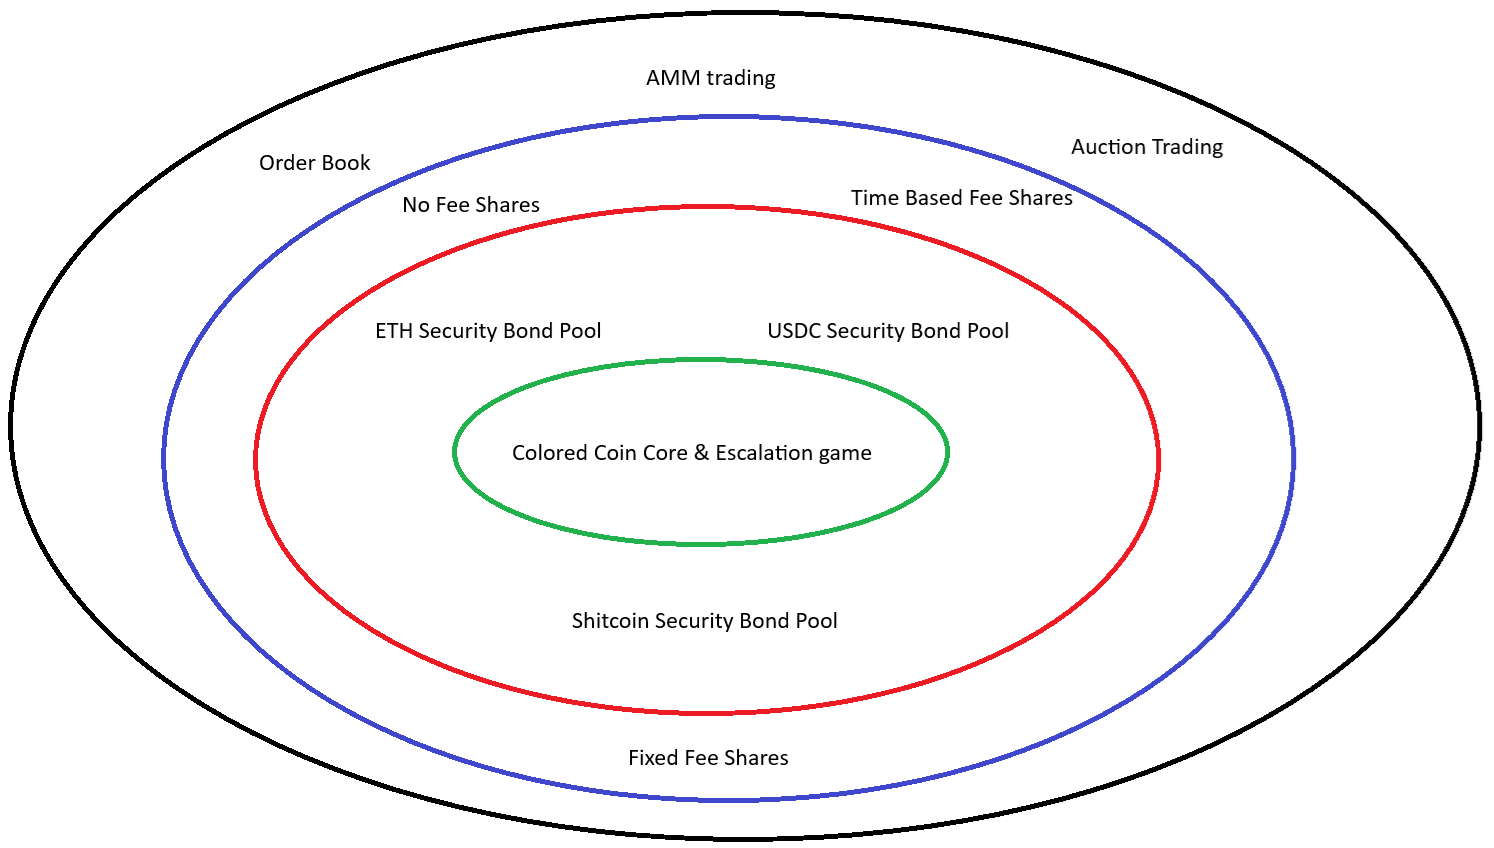
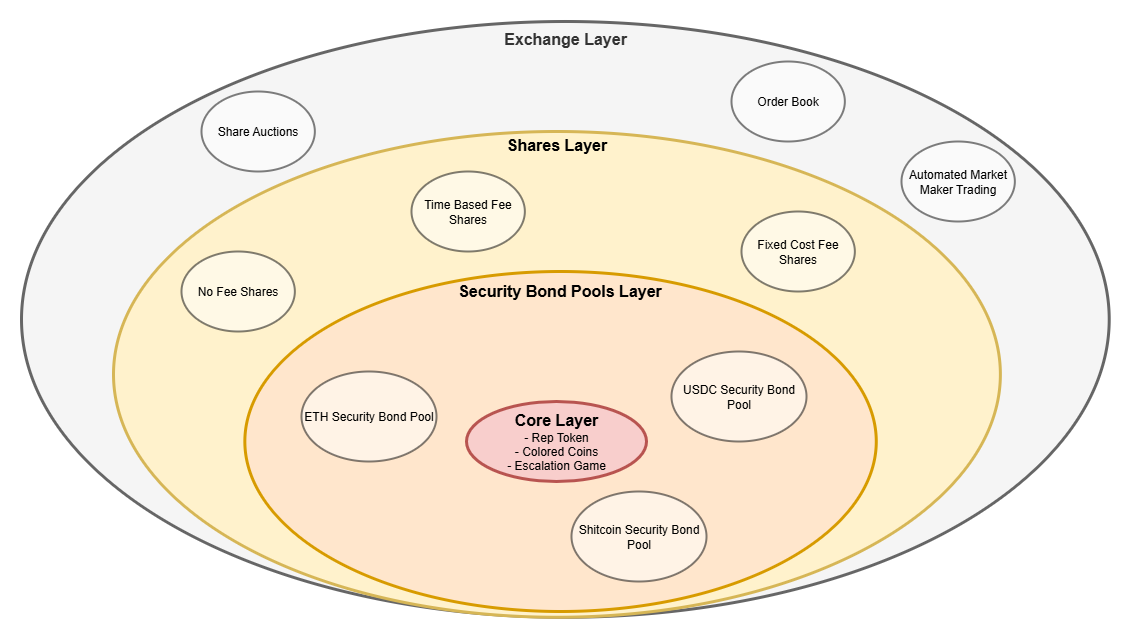
updates

diff --git a/second_draft_whitepaper/whitepaper_DRAFT2.md b/second_draft_whitepaper/whitepaper_DRAFT2.md
@@ -1,13 +1,19 @@
 # PLACEHOLDER2 - a Decentralized Oracle and Prediction Market Platform
 
+PLACEHOLDER2 is a game-theoretically secure, censorship-resistant oracle and prediction market protocol built on Ethereum. It allows users to create, trade, and resolve prediction markets while aligning incentives toward accurate reporting of real-world outcomes.
+
+PLACEHOLDER2 is built on the Augurs2 design idea: If there's disagreement about how a market should resolve, Augur splits into two chains. Users are expected to follow the chain that reflects the "truth," and that version retains its value.
+
 ![image](images/layers.png)
 
-PLACEHOLDER2 is built with multiple layers. At its core is the Colored Coins system, combined with an Escalation game. Each additional layer extends this foundation. Upgrades are trustless and open - anyone can deploy a new contract, and once deployed, it can be used alongside all previous contract versions.
-
-The PLACEHOLDER2 core allows betting only with REP tokens. To enable betting with other tokens, Token Security Bond Pools come in the play, which is the next layer. The above layers then again plug into this layer to continue building financial derivates on top of the core.
+PLACEHOLDER2 is built with multiple layers: 
+1) **Core Layer**: A feeless Colored Coins system with an Escalation Game. The Core Layer enables users to submit questions to the PLACEHOLDER2 oracle. The oracle can respond with one of three outcomes - YES, NO, or INVALID - or, if there is disagreement, trigger a fork of the REP token to resolve the question in the forked universe.
+2) **Seurity Bonds Pools Layer**: Converts the REP backed bets into backed by any other token, eg, ETH/USDC or any untrusted shitcoins.
+3) **Shares Layer**: Enables REP holders to sell their share of PLACEHOLDER2’s security to traders through customizable fee structures.
+4) **Exchange Layer**: Provides a marketplace where traders can buy and sell shares, as well as place bets on real-world events, using tokens and fee structures defined by the market.
 
 # Core Layer
-The core consists of a colored coin system and an escalation game.
+The core consists of a Colored Coin system and an Escalation Game system.
 
 The *Colored Coins* system refers to a distinct oracle mechanism, with the earliest mention appears in a brief reference by [zack-bitcoin](https://github.com/zack-bitcoin) in the [Amoveo documentation](https://github.com/zack-bitcoin/amoveo-docs/blob/master/design/oracle_simple.md). This design is entirely separate from the concept of [Colored Coins on Bitcoin](https://en.bitcoin.it/wiki/Colored_Coins), which involves tagging bitcoins to represent alternative assets on the Bitcoin blockchain.
 
@@ -20,5 +26,126 @@ The core concept of Colored Coins can be summarized as:
 > Each time the system encounters a decision, the chain of decisions splits-each possible outcome unfolding in its own branch. These branches can then continue to fork with every subsequent decision.
 
 PLACEHOLDER2 implements the same system using REP token than splits decisions. However, not every decisions will trigger a fork. An escalation game system is used to prevent disruptive forks.
+
+## Colored Coin never resolves the markets
+A key implication of this design is that the system never definitively resolves decisions. From the perspective of an outside observer, there is no single "correct" outcome-since all outcomes exist simultaneously on their respective branches. This makes the system fundamentally different to other decentralized oracles (e.g., [Augur V2](https://github.com/AugurProject/whitepaper/releases/latest/download/augur-whitepaper-v2.pdf) or [UMA](https://uma.xyz/)), which are vulnerable to parasitic interest attacks. In contrast, the Colored Coins approach mitigates this issue by not finalizing any single resolution, making it impossible to extract value without engaging directly in the system.
+
+Some may argue that this mechanism doesn't constitute a true oracle-since it never produces a final, canonical answer-but in the context of a prediction market, a definitive oracle isn't always necessary.
+
+In this model, users can freely trade within a chosen branch (also called "chain" or "universe" in this article). When the market forks due to a decision, each participant can independently select the branch they consider to represent the correct outcome and continue trading within that context.
+
+> [!NOTE]
+> ### Example: Universe Forking in Practice
+> 
+> Assume we have two prediction market traders, **Bob** And **Alice**. The traders are trading with colored coins denotiated with $REP$.
+> 
+> 1. **Bob** holds 100 YES shares in the market.
+> 2. **Alice** holds 100 NO shares in the same market.
+> 3. When the market reaches its resolution point, the current universe forks into two new universes: one where the outcome is **YES**, and another where it is **NO**.
+> 4. In the **YES universe**, Bob can redeem his 100 YES shares for 100 units of a universe-specific asset, denoted as $REP_{YES}$. In this universe, Alice's NO shares are worthless (0 $REP_{YES}$).
+> 5. In the **NO universe**, Alice can redeem her 100 NO shares for 100 $REP_{NO}$. In this universe, Bob's YES shares hold no value (0 $REP_{NO}$).
+> 6. Despite losing in the YES universe, Bob might personally believe the NO outcome is correct. As a result, he chooses to continue trading in the **NO universe**.
+> 7. Alice also believes the NO universe is correct and continues trading there as well.
+> 
+> However, this isn’t always the case. Steps 6 and 7 could unfold differently if the participants disagree. For example, Bob might stay in the YES universe while Alice stays in the NO universe.
+
+> So for an honest oracle the question of "Is it raining in Berlin" is kind of the same as the question "Should we say it's raining in Berlin" - Edmund Edgar
+
+## Truthful universe should retain significant portion of the economic activity
+
+After a market has forked, if enough users support each branch, both universes can retain economic activity and remain valuable, potentially becoming the basis for future markets independently. The system considers all the future universes equally and internally has no information about the truthfulness of the universes. We can assume that at the time of the fork, the value of the assets prior to the fork equal the value of the assets after the fork (across all universes):
+
+```math
+\boxed{
+	value\;of\;assets\;prior\;fork = \sum_{future\;universes}{value\;of\;assets_{universe}}
+}
+```
+
+We also need to assume that:
+```math
+\boxed{
+	value\;of\;assets\;prior\;fork ≈ value\;of\;assets_{truthful\;universe}
+}
+```
+We can then deduce that this must mean that the value of dishonest universes need to be approximately 0:
+```math
+\sum_{dishonest\;universes}{value\;of\;assets_{universe}} ≈ 0
+```
+If these assumptions hold, traders are incentivized to align their trades with the truth, as only the true outcome captures all the value when the market resolves. Otherwise, traders may be biased against the actual value distribution, since multiple outcome branches can each retain non-zero value at resolution.
+
+> [!NOTE]
+> ### Example: Split Beliefs
+> 
+> **Alice** is trading on a prediction market for the question: *"Who will be the leader of OrangeLand in 2025?"* The market currently has equal-priced limit orders, implying a 50%-50% probability split between **Leader Bob** and **Majesty Mallory**.
+> 
+> Due to ongoing political turmoil in OrangeLand, Alice believes the country will fracture into two factions, each recognizing a different leader as legitimate. She estimates that 20% of the country will recognize **Leader Bob**, while 80% will support **Majesty Mallory**.
+> 
+> From Alice’s perspective, the correct valuation of the options should reflect this split: the **Leader Bob** contract should be priced at 20%, and the **Majesty Mallory** contract at 80%. However, since the market currently prices both at 50%, Alice sees a profitable opportunity. She can buy **Leader Bob** shares, which she believes are undervalued, and sell or avoid **Majesty Mallory** shares, which she believes are overvalued. If her belief about the split future is correct, her **Leader Bob** shares will effectively be worth 80% of their current market value, generating a significant profit.
+
+## Acquiring Colored Coins
+
+Obtaining colored coins can be challenging, as the system lacks a built-in mechanism to mint new coins on demand. Currently, there are a few ways to acquire them:
+
+1. **Initial Distribution**: When the system is first launches, colored coins can be distributed to users.
+2. **Secondary Market**: Once the system is operational, existing holders may sell their coins to new users in exchange for other assets.
+3. **Market Winnings**: In the prediction markets, winners receive colored coins from the losing side of bets.
+
+If a reliable internal method is established to assess the value of colored coins, the system could introduce a mint-and-burn mechanism-minting new coins backed by valuable assets, and later buying them back using the same assets.
+
+One possible implementation this would be periodic auctions, where a fixed amount of colored coins is auctioned in exchange for a predefined asset considered valuable at the system’s launch. In parallel, a reverse auction could be held where users exchange those assets back for colored coins, helping to establish and reinforce their internal value.
+
+> [!WARNING]
+> TODO: Analyze these distribution methods more
+
+## All assets need to be forkable
+
+The Colored Coins system requires the asset that markets are denominated in to be natively splittable across forks, which prevents the direct use of external assets like Ether, Bitcoin, or fiat-backed stablecoins. As a result, participants must trade using assets issued and governed entirely within the system.
+
+This is a major limitation. Each deployment must create its own internal currencies, which are the only tradable assets. Consequently, liquidity and price stability are often weaker than they would be if widely recognized external assets were supported.
+
+The **Partial Colored Coins** system is a proposed solution to this limitation. It aims to enable trading using external assets while preserving the core branching mechanism of the Colored Coins model.
+
+## What Makes Colored Coins Valuable?
+
+The Colored Coins system does not impose any fees to its users, so the coins do not derive value from generating profit for their holders. Instead, their value comes from the permission they grant: holding colored coins allows users to participate in trustless prediction markets. Users without colored coins must acquire them (as discussed earlier) in order to take part.
+
+This logic also explains why *truthful* colored coins hold value, while *dishonest* ones do not. Prediction markets only function properly when participants are incentivized to make honest predictions. If dishonest outcomes were valuable, the markets would lose their purpose. Therefore, the system relies on the value of colored coins being tied to truthful participation.
+
+Importantly, Colored Coins avoid the "Ouroboros Problem"-a flaw common in pyramid or Ponzi schemes -- where value depends on attracting new investors to pay returns to earlier ones. Instead, the value of Colored Coins is sustained by the actual use of the platform, not by the influx of new capital.
+
+### Volatility of Colored Coins
+The value of colored coins is highly volatile, as it is only tied to the utility and activity within the prediction market platform. When platform usage increases-especially during periods with engaging or high-interest markets-the demand for colored coins can tend to rise, pushing their value up. Conversely, when activity slows down or markets are less appealing, their value can drop.
+
+> [!NOTE]
+> #### Example: Predicting with volatile coins
+> Suppose one colored coin is worth $5. You place a successful bet and double your colored coin balance from 1 COINS to 2 COINS. However, during that time, the value of each colored coin drops to $2.50. Despite winning the bet, your total value remains $5, meaning you made no real gain.
+
+Traders in the colored coins system must account for potential fluctuations in the coin's value over time. A trader who believes the value of colored coins will rise might opt to simply buy and hold them, rather than engaging in prediction markets. If the value does increase, they can later sell the coins for a profit.
+
+However, this volatility introduces a strategic vulnerability. If a trader believes the platform's currency is overvalued, they should avoid participating in prediction markets. Instead, the rational move would be to sell their holdings, wait for the currency to reach a more reasonable valuation, and only then re-engage with the platform. Conversely, if the colored coins are undervalued, the trader should consider buying them and possibly participating in prediction markets to amplify potential gains.
+
+An efficient shorting mechanism for colored coins could add significant value by enabling traders to profit from both upward and downward price movements, while also helping to keep the asset's value within a more reasonable range.
+
+If the Colored Coins system is treated purely as a game, without attaching financial value to the coins, volatility becomes irrelevant. In this context, players may care only about the number of colored coins they hold in the correct universe-not their value relative to any external asset.
+
+## Assumptions of colored coins
+
+To sum it up, in order for the Colored Coins system to be secure, we need to assume the following: 
+
+1. **Users are greedy**: Users value more money over less money.
+2. **A fork doesn't change the total value of the system**. Market cap of a previous universe equals to market cap of the formed universes: 
+```math
+\text{value of assets prior fork }= \sum_{\text{future universes}}{\text{value of assets}_{universe}}
+```
+3. **Users value honest universe(s)**: User prefers to use an universe that is honest in their opinion:
+```math
+\text{value of assets prior fork } = \text{value of assets}_{\text{truthful universe}}
+```
+4. **Neglible operation costs**: Transaction fees (eg, gas fee) are neglible compared to financial value of the transactions.
+5. **Access to information**: Users should have reliable and timely access to information in order to determine the most truthful outcome of a market.
+6. **Colored Coins are not too volatile**: If the coins are too volatile, it makes no sense to bet with them.
+7. **Traders can handle some extra volatility**: Users are okay to trade only with volatile tokens.
+8. **Migrating is not too hard**: Users, exchanges and other tools using the systems are okay to migrate into fork they believe is truthful.
+
 
 ## [Escalation Game](Escalation%20Game.md)

diff --git a/Partial Colored Coins.md b/Partial Colored Coins.md
@@ -122,7 +122,7 @@ A more robust approach is to implement time-based fees - fees that increase the 
 
 One simple method to implement time-based fee adjustments is via a [**Bang–bang controller**](https://en.wikipedia.org/wiki/Bang%E2%80%93bang_control):
 ```math
-\text{Fee Change%} = 
+\text{Fee Change Fraction} = 
 \begin{cases}
 +\text{increment} & \text{if } \text{open interest} > \text{Target REP Market Cap} \\\\
 0 & \text{if } \text{open interest} = \text{Target REP Market Cap} \\\\
@@ -134,7 +134,7 @@ Here, `increment` is a tunable parameter that determines how quickly the fee rea
 
 The actual **Open Interest Fee (%)** then evolves over time as:
 ```math
-\text{New Open Interest Fee%} = \text{Previous Open Interest Fee} + \text{Fee Change%} \cdot \Delta time
+\text{New Open Interest Fee Fraction} = \text{Previous Open Interest Fee} + \text{Fee Change Fraction} \cdot \Delta time
 ```
 
 Where:
@@ -202,11 +202,11 @@ where $\text{REP Token Price}_{asset}$ is $REP$ token price in asset, which is a
 ```
 We can then get $REP$'s token price in the same unit as the market cap is calculated, e.g., dollars($):
 ```math
-\text{REP Token Price}_$ = \frac{\text{REP Market Cap}_$}{\text{REP Token Supply}+\sum_{ a \in \text{all assets} }{\text{REP Tokens Minted}_{a}}}
+\text{REP Token Price}_{USD} = \frac{\text{REP Market Cap}_{USD}}{\text{REP Token Supply}+\sum_{ a \in \text{all assets} }{\text{REP Tokens Minted}_{a}}}
 ```
 We then need to have a price oracle for each $asset$ in dollars:
 ```math
-\text{REP Token Price}_{asset} = \frac{\text{REP Token Price}_$}{\text{Asset Token Price}_$}
+\text{REP Token Price}_{asset} = \frac{\text{REP Token Price}_{USD}}{\text{Asset Token Price}_{USD}}
 ```
 
 We can then deduce how much $REP$ we need to mint against each collateral:
